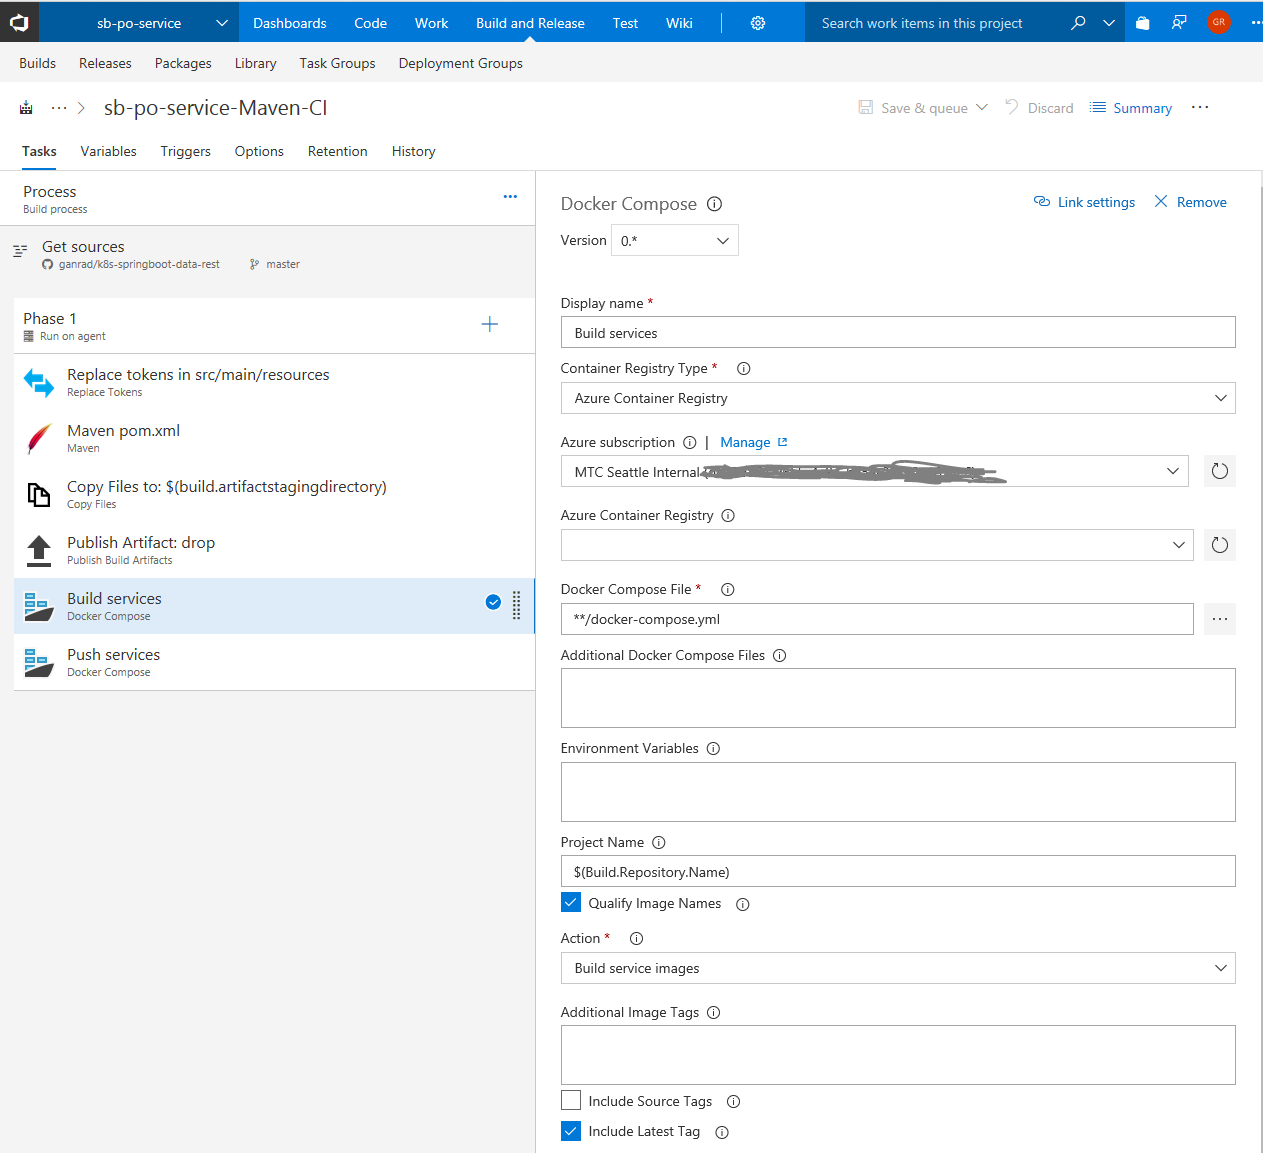
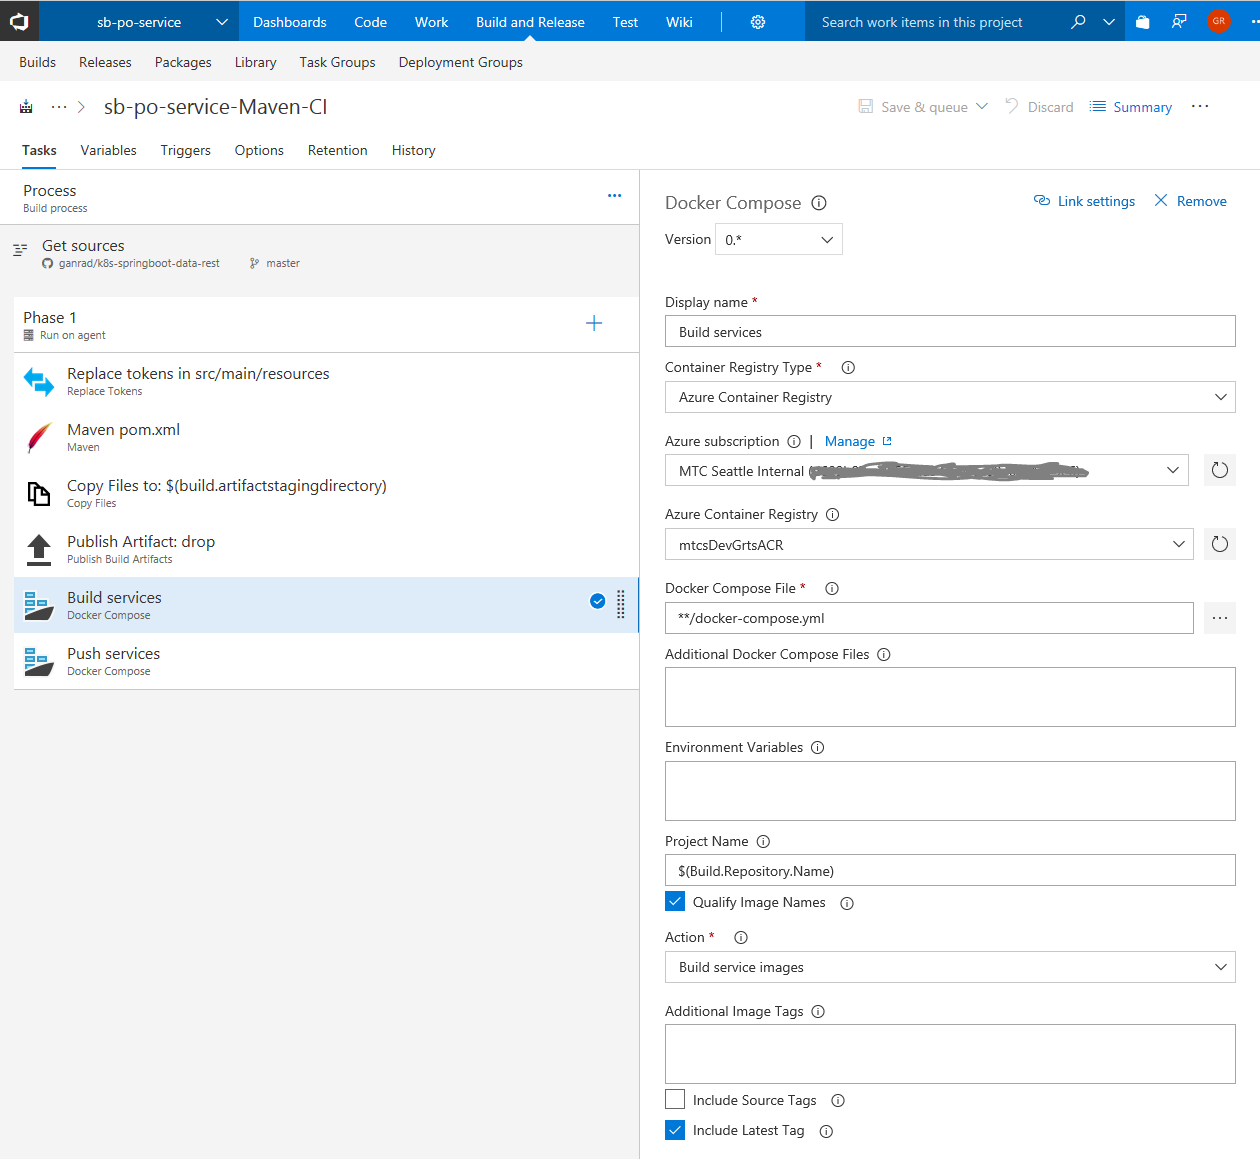
Updated Readme doc.

diff --git a/README.md b/README.md
@@ -13,7 +13,7 @@ This Springboot application demonstrates how to build and deploy a *Purchase Ord
 ### A] Deploy a VSTS application build agent in a separate Azure VM
 This agent will be used by VSTS to run application and container builds.  Follow instructions below to create a Linux VM and deploy the VSTS build (docker) container.
 
-1.  Open a command terminal on your workstation.  This tutorial requires that you are running the Azure CLI version 2.0.4 or later.  If you need to install or upgrade Azure CLI, see [install Azure CLI 2.0](https://docs.microsoft.com/en-us/cli/azure/install-azure-cli?view=azure-cli-latest) on your workstation.
+1.  Open a command terminal on your workstation.  This tutorial requires you to run the Azure CLI version 2.0.4 or later.  If you need to install or upgrade Azure CLI, see [install Azure CLI 2.0](https://docs.microsoft.com/en-us/cli/azure/install-azure-cli?view=azure-cli-latest) on your workstation.
 
 2.  An Azure resource group is a logical container into which Azure resources are deployed and managed.  So let's start by first creating a **Resource Group** using the Azure CLI.  Alternatively, you can use Azure Portal to create this resource group.  
 ```
@@ -58,14 +58,23 @@ Click on **Add** to create a new PAT.  In the next page, provide a short descrip
 
 ![alt tag](./images/C-02.png)
 
-In the next page, make sure to **copy and store** the PAT into a file.  Keep in mind, you will not be able to retrieve this token again.  The only option would be to create a new PAT incase you happen to lose or misplace the token.  So save it to a file.
+In the next page, make sure to **copy and store** the PAT into a file.  Keep in mind, you will not be able to retrieve this token again.  Incase you happen to lose or misplace the token, you will need to generate a new PAT and use it to reconfigure the VSTS build agent.  So save this PAT (token) to a file.
 
 9.  Use the command below to start the VSTS build container.  Substitute the correct value for **VSTS_TOKEN** parameter, the value which you copied and stored in a file in the previous step.  The VSTS build agent will initialize and you should see a message indicating "Listening for Jobs".
 ```
-sudo docker run -e VSTS_ACCOUNT=ganrad -e VSTS_TOKEN=<xyz> -v /var/run/docker.sock:/var/run/docker.sock --name vstsagent -it vsts/agent
+sudo docker run -e VSTS_ACCOUNT=ganrad -e VSTS_TOKEN=<xyz> -v /var/run/docker.sock:/var/run/docker.sock --name vstsagent -it microsoft/vsts-agent
 ```
 
 ### B] Deploy Azure Container Registry (ACR) on Azure
+In this step, we will deploy an instance of Azure Container Registry to store container images which we will build in the next steps.  A container registry such as ACR allows us to store multiple versions of application container images in one centralized repository and consume them from multiple nodes (VMs/Servers) where our applications are deployed.
+
+1.  Login to your Azure portal account.  Then click on **Container registries** in the navigational panel on the left.  If you don't see this option in the nav. panel then click on **All services**, scroll down to the **COMPUTE** section and click on the star beside **Container registries**.  This will add the **Container registries** option to the service list in the navigational panel.  Now click on the **Container registries** option.  You will see a page as displayed below.
+
+![alt tag](./images/B-01.png)
+
+2.  Click on **Add** to create a new ACR instance.  Give a meaningful name to your registry, select an Azure subscription, select the **Resource group** which you created in step [A] and choose a location.  Enable the **Admin user** option and managed registry.  Select the **Basic** pricing tier (if applicable).  Click **Create** when you are done.
+
+![alt tag](./images/B-02.png)
 
 ### C] Create a new Build definition in VSTS
 1.  Fork this GitHub repository.
@@ -88,7 +97,7 @@ sudo docker run -e VSTS_ACCOUNT=ganrad -e VSTS_TOKEN=<xyz> -v /var/run/docker.so
 
 ![alt tag](./images/A-06.png)
 
-7.  Select *Default* in the **Agent Queue** field.  The VSTS build agent connects to this *queue* and listens for build requests.
+7.  Select *Default* in the **Agent Queue** field.  The VSTS build agent which you deployed in step [A] connects to this *queue* and listens for build requests.
 
 ![alt tag](./images/A-07.png)
 
@@ -117,15 +126,15 @@ svc.name.k8s.namespace mysql.development
 
 13.  Go thru the **Copy Files...** and **Publish Artifact:...** tasks.  These tasks copy the application binary artifacts (*.jar) to the **drop** location on the VSTS server.
 
-14.  Next, we will package our application binary within a container.  Review the **docker-compose.yml** and **Dockerfile** files in the source repository to understand how the application container image is built.  Click on the plus symbol to add a new task. Search for text *Docker Compose* and click **Add**.
+14.  Next, we will package our application binary within a container.  Review the **docker-compose.yml** and **Dockerfile** files in the source repository to understand how the application container image is built.  Click on the plus symbol to add a new task. Search for task *Docker Compose* and click **Add**.
 
 ![alt tag](./images/A-14.png)
 
-15.  Click on the **Run a Docker Compose ...* task on the left.  Specify *Azure Container Registry* for **Container Registry Type**.  In the**Azure Subscription** field, select your Azure subscription.  Click on **Authorize**.  In the **Azure Container Registry** field, select the ACR which you created in step [B] above.  Check to make sure the **Docker Compose File** field is set to **/docker-compose.yml.  Enable **Qualify Image Names** checkbox.  In the **Action** field, select *Build service images* and also enable **Include Latest Tag** checkbox.  See screenshot below.
+15.  Click on the **Run a Docker Compose ...* task on the left.  Specify *Azure Container Registry* for **Container Registry Type**.  In the **Azure Subscription** field, select your Azure subscription.  Click on **Authorize**.  In the **Azure Container Registry** field, select the ACR which you created in step [B] above.  Check to make sure the **Docker Compose File** field is set to **/docker-compose.yml.  Enable **Qualify Image Names** checkbox.  In the **Action** field, select *Build service images* and also enable **Include Latest Tag** checkbox.  See screenshot below.
 
 ![alt tag](./images/A-15.PNG)
 
-16.  Once our application container image has been built, we will push it into the ACR.  Add another task to publish the container image built in the previous step to ACR. Search by text *Docker Compose* and click **Add**.
+16.  Once our application container image has been built, we will push it into the ACR.  Add another task to publish the container image built in the previous step to ACR. Repeat step [15] and search for task *Docker Compose* and click **Add**.
 
 17.  Click on the **Run a Docker Compose ...* task on the left.  Specify *Azure Container Registry* for **Container Registry Type**.  In the**Azure Subscription** field, select your Azure subscription.  In the **Azure Container Registry** field, select the ACR which you created in step [B] above.  Check to make sure the **Docker Compose File** field is set to **/docker-compose.yml.  Enable **Qualify Image Names** checkbox.  In the **Action** field, select *Push service images* and also enable **Include Latest Tag** checkbox.  See screenshot below.
 
